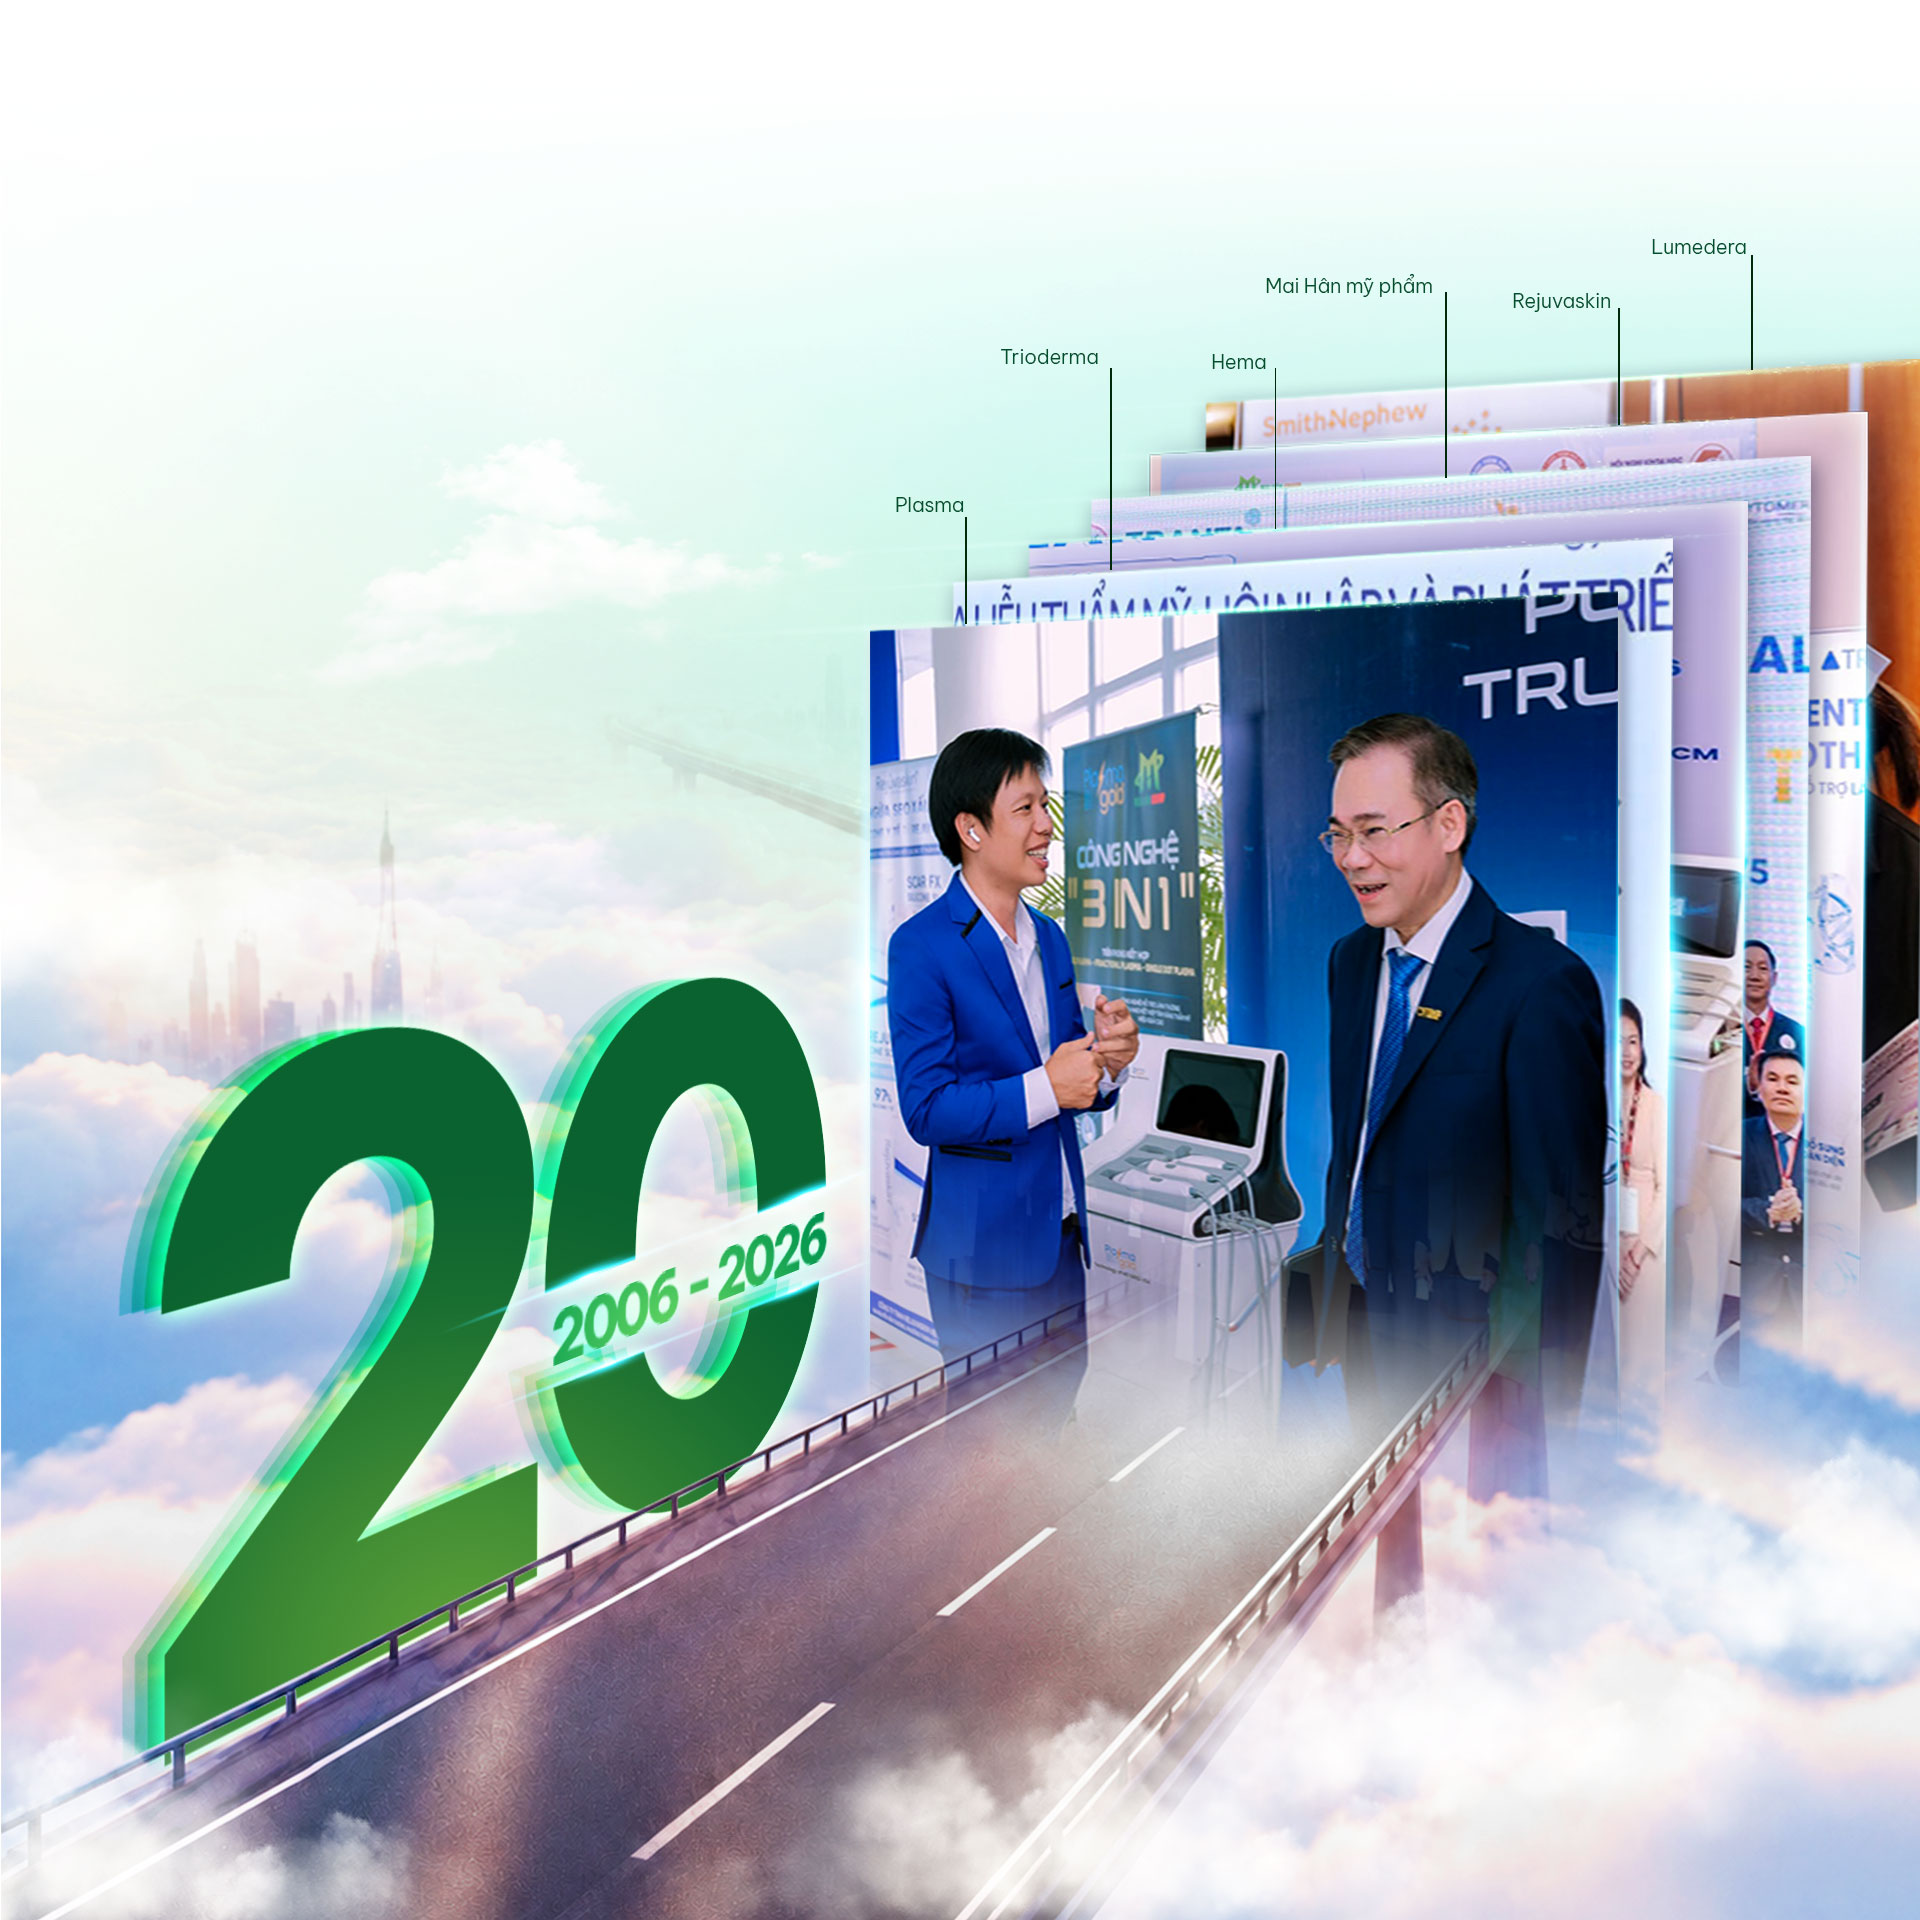
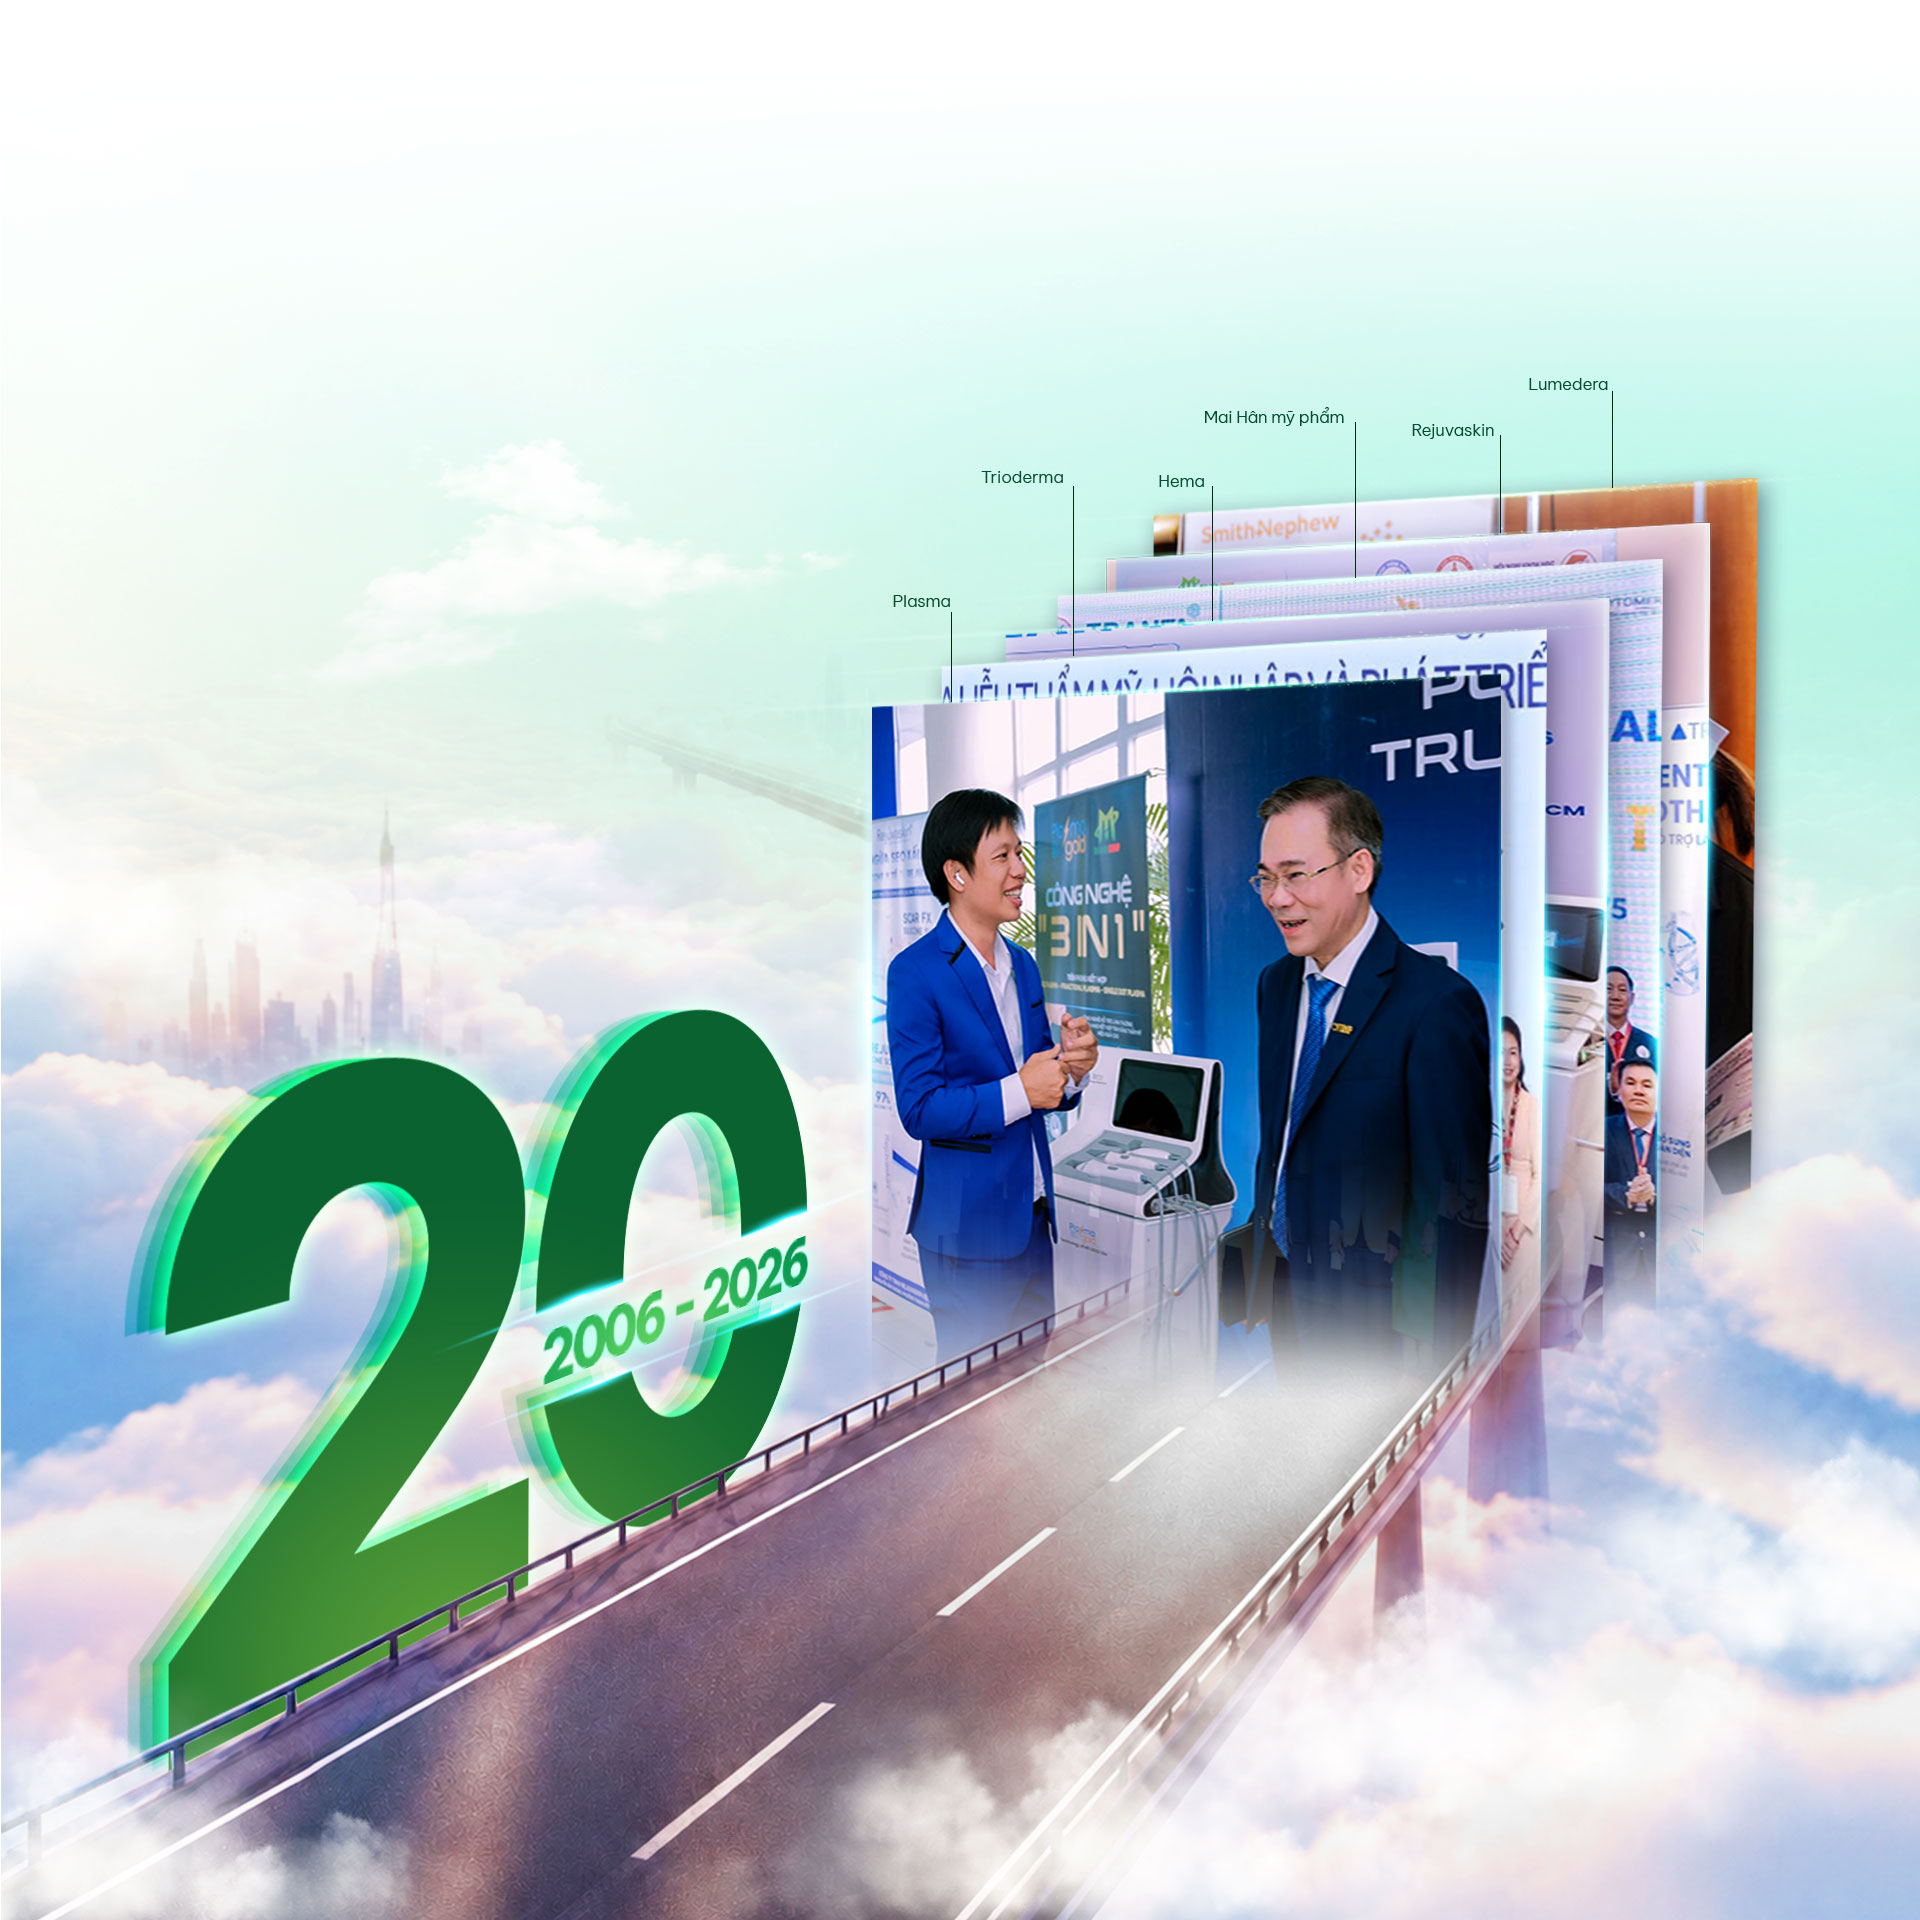
seven

Changed region(s): [[0.0625, 0.1875, 1.0, 0.9375], [0.125, 0.875, 0.1562, 0.9062]]

diff --git a/css/ldp_mhg.css b/css/ldp_mhg.css
@@ -82,10 +82,21 @@
   --url: url(../images/index_1.jpg);
   padding: 30px 0px;
   background-color: white;
+  aspect-ratio: 1/1;
 }
 @media (min-width: 767px) {
   .ldp_mhg .top_1 {
     background-position: center top 30px;
+  }
+}
+@media (max-width: 1199px) {
+  .ldp_mhg .top_1 {
+    aspect-ratio: 1/1;
+  }
+}
+@media (max-width: 767px) {
+  .ldp_mhg .top_1 {
+    aspect-ratio: unset;
   }
 }
 .ldp_mhg .top_1 .d_1 {
@@ -97,7 +108,10 @@
   }
 }
 .ldp_mhg .top_1 .t_1 {
-  font-size: clamp(22px, 2.5vw, 48px);
+  font-size: clamp(18px, 2.5vw, 48px);
+}
+.ldp_mhg .top_1 .t_2 {
+  font-size: clamp(28px, 3.64583333vw, 70px);
 }
 .ldp_mhg .top_2 {
   --url: url(../images/index_8.jpg);
@@ -235,7 +249,7 @@
 }
 @media (max-width: 1199px) {
   .ldp_mhg .top_3 .bl_1 .d_1 {
-    --border-width: 2px;
+    --border-width: 4px;
     transform: unset;
     border-radius: 30px;
     max-width: 500px;
@@ -283,15 +297,15 @@
   }
 }
 .ldp_mhg .top_3 .bl_1 .d_1 .t_3 {
-  font-size: clamp(24px, 2.1875vw, 42px);
+  font-size: clamp(22px, 2.1875vw, 42px);
   text-align: justify;
   margin: 0px;
 }
 .ldp_mhg .top_3 .bl_1 .d_2 {
   --r: var(--angle);
   background-color: var(--color-racing-green);
-  border: 5px solid white;
-  outline: 5px solid var(--color-racing-green);
+  border: var(--border-width) solid white;
+  outline: var(--border-width) solid var(--color-racing-green);
 }
 .ldp_mhg .top_3 .bl_1 .d_2 .t_2 {
   color: var(--color-racing-green);

diff --git a/css/ldp_mhg.less b/css/ldp_mhg.less
@@ -95,13 +95,20 @@
             background-position: center top 30px;
         }
 
+        .res(aspect-ratio, 1/1, unset, 1/1);
+
+
         .d_1 {
             .m(0px auto 120px, 0px auto 60px);
 
         }
 
         .t_1 {
-            .fs(22px, 36px);
+            .fs(18px, 36px);
+        }
+
+        .t_2 {
+            .fs(28px, 52px);
         }
     }
 
@@ -204,7 +211,7 @@
                 .m(0 ~"calc(-1 * (1 - var(--scale)) * var(--w) / 2)", false, 0px auto);
 
                 @media @tab {
-                    --border-width: 2px;
+                    --border-width: 4px;
                     transform: unset;
                     border-radius: 30px;
                     max-width: 500px;
@@ -255,7 +262,7 @@
                 }
 
                 .t_3 {
-                    .fs(24px, 32px);
+                    .fs(22px, 32px);
                     text-align: justify;
                     margin: 0px;
                 }
@@ -265,8 +272,8 @@
                 --r: var(--angle);
 
                 background-color: var(--color-racing-green);
-                border: 5px solid white;
-                outline: 5px solid var(--color-racing-green);
+                border: var(--border-width) solid white;
+                outline: var(--border-width) solid var(--color-racing-green);
 
                 .t_2 {
                     color: var(--color-racing-green);

diff --git a/css/ldp_plasma.css b/css/ldp_plasma.css
@@ -134,15 +134,10 @@
 }
 .ldp_plasma .top_2 .bl_1 .d_1 {
   grid-template-columns: minmax(0, 300px) minmax(0, 1fr);
-  gap: 30px;
-  margin: -100px auto 10px;
+  gap: 15px;
+  margin: -10% auto 10px;
   align-items: center;
   width: fit-content;
-}
-@media (max-width: 1199px) {
-  .ldp_plasma .top_2 .bl_1 .d_1 {
-    gap: 5px;
-  }
 }
 @media (max-width: 767px) {
   .ldp_plasma .top_2 .bl_1 .d_1 {

diff --git a/css/ldp_plasma.less b/css/ldp_plasma.less
@@ -111,8 +111,8 @@
 
             .d_1 {
                 grid-template-columns: minmax(0, 300px) minmax(0, 1fr);
-                .gap(30px, 0px, 5px);
-                .m(-100px auto 10px, -60px auto 10px);
+                .gap(15px, 0px);
+                .m(-10% auto 10px, -60px auto 10px);
                 align-items: center;
                 width: fit-content;
 

diff --git a/css/ldp_hema.css b/css/ldp_hema.css
@@ -4,6 +4,9 @@
   font-size: clamp(14px, 0.9375vw, 18px);
   font-family: var(--font-hema-normal);
 }
+.ldp_hema a {
+  color: var(--color-dark-blue);
+}
 .ldp_hema b {
   font-family: var(--font-hema-bold);
 }

diff --git a/css/ldp_reju.less b/css/ldp_reju.less
@@ -478,7 +478,7 @@
 
 .bl_product {
     grid-template-columns: repeat(3, minmax(0, 1fr));
-    .gap(60px 30px, 30px 15px, 1200px);
+    .gap(60px 30px, 30px 15px, true);
     display: grid;
     width: 100%;
 

diff --git a/css/ldp_hema.less b/css/ldp_hema.less
@@ -6,6 +6,10 @@
     .fs(14px, 14px);
     font-family: var(--font-hema-normal);
 
+    a {
+        color: var(--color-dark-blue);
+    }
+
     b {
         font-family: var(--font-hema-bold);
     }

diff --git a/css/ldp_reju.css b/css/ldp_reju.css
@@ -523,11 +523,6 @@
 }
 @media (max-width: 1199px) {
   .bl_product {
-    gap: 1200px;
-  }
-}
-@media (max-width: 767px) {
-  .bl_product {
     gap: 30px 15px;
   }
 }
